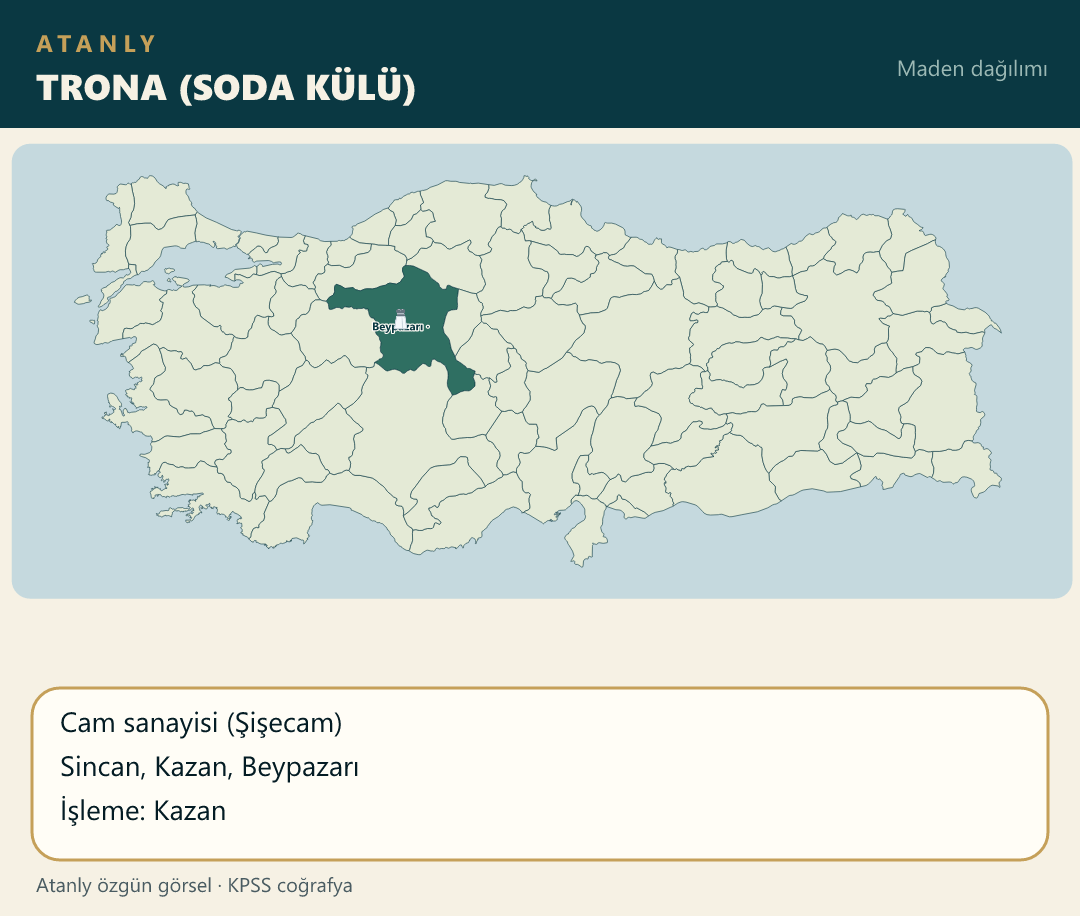
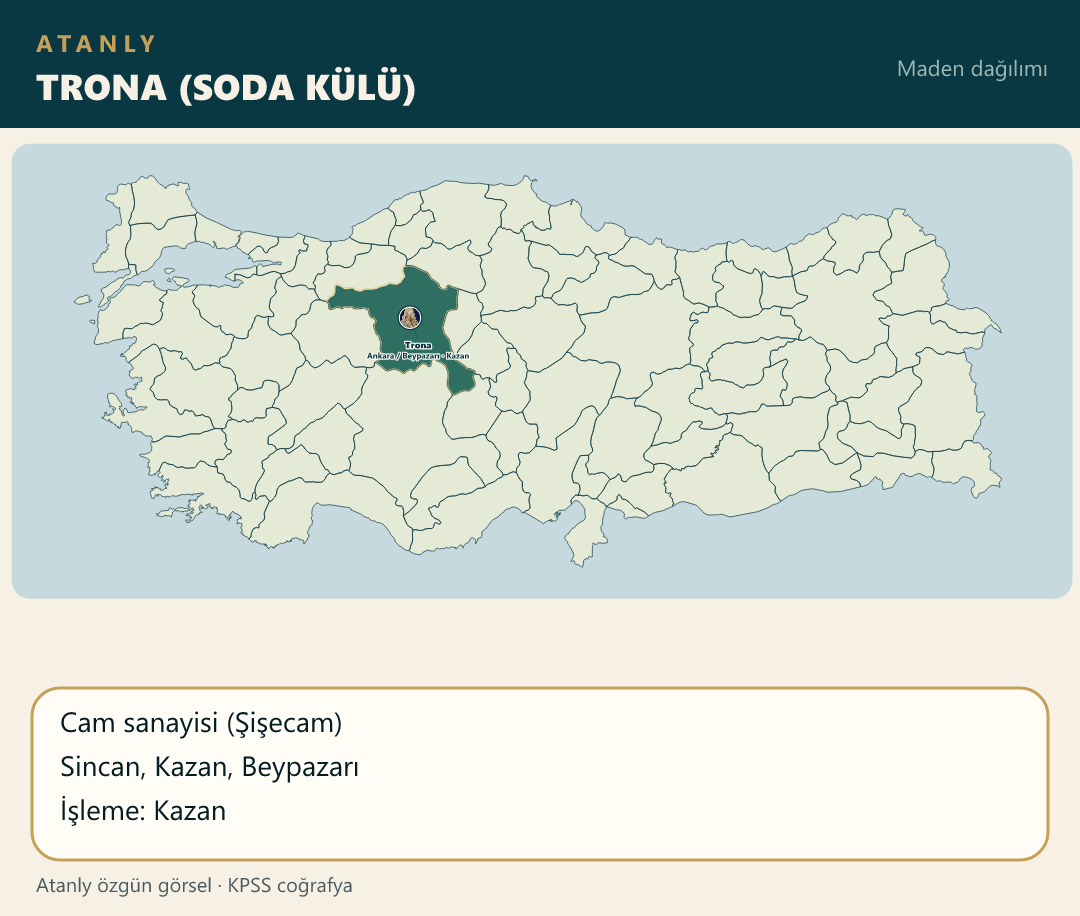
Place the trona photo on the Ankara land-center pin.

diff --git a/scripts/build-atanly-maps.js b/scripts/build-atanly-maps.js
@@ -484,7 +484,7 @@ function topicIcon(file) {
         milliparklar: "park",
         madengenel: "ore", madendemir: "iron", madenbakir: "copper", madenboksit: "bauxite",
         madenkrom: "chrome", madenbarit: "barite", madenbor: "boron", madenmermer: "marble",
-        madenfosfat: "phosphate", madenasbest: "asbestos", madentrona: "salt", madenaltin: "gold",
+        madenfosfat: "phosphate", madenasbest: "asbestos", madentrona: "trona", madenaltin: "gold",
         madenuranyum: "uranium", madentoryum: "thorium", madenciva: "mercury", madentuz: "salt",
         madenperlit: "perlite", madenpomza: "pumice", madenkukurt: "sulfur", madenmanganez: "manganese",
         madenkursun: "lead", madenoltu: "jet", madenlule: "lule", madenvolfram: "tungsten",
@@ -1049,8 +1049,10 @@ function main() {
                 { il: "Sivas", ilce: "Yıldızeli", ldx: 8, ldy: -28 }
             ],
             facts: ["Yanmazlık özelliği vardır", "Kanser yapıcı olduğu için yasaklıdır"] },
-        { file: "maden_trona.png", title: "TRONA (SODA KÜLÜ)", iller: ["Ankara"],
-            yazilar: ["Beypazarı · Kazan"],
+        { file: "maden_trona.png", title: "TRONA (SODA KÜLÜ)", urun: "Trona",
+            noktalar: [
+                { il: "Ankara", ilce: "Beypazarı · Kazan", ldx: 8, ldy: 30 }
+            ],
             facts: ["Cam sanayisi (Şişecam)", "Sincan, Kazan, Beypazarı", "İşleme: Kazan"] },
         { file: "maden_altin.png", title: "ALTIN", urun: "Altın",
             noktalar: [

diff --git a/notlar/cografya-21-not.js b/notlar/cografya-21-not.js
@@ -2,7 +2,7 @@
 (function () {
     function harita(src, alt) {
         return '<div class="mt-4 overflow-hidden rounded-xl border border-blue-200 dark:border-blue-700/50 bg-white dark:bg-slate-800 p-2">' +
-            '<img src="./src/img/' + src + '?v=34" alt="' + alt + ' Haritası" class="w-full h-auto rounded-lg object-contain" loading="lazy">' +
+            '<img src="./src/img/' + src + '?v=35" alt="' + alt + ' Haritası" class="w-full h-auto rounded-lg object-contain" loading="lazy">' +
             "</div>";
     }
 

diff --git a/index.html b/index.html
@@ -119,7 +119,7 @@
     <script src="notlar/cografya-18-not.js?v=17"></script>
     <script src="notlar/cografya-19-not.js?v=25"></script>
     <script src="notlar/cografya-20-not.js?v=1"></script>
-    <script src="notlar/cografya-21-not.js?v=27"></script>
+    <script src="notlar/cografya-21-not.js?v=28"></script>
     <script src="notlar/cografya-22-not.js?v=1"></script>
     <script src="notlar/cografya-23-not.js?v=1"></script>
     <script src="notlar/cografya-24-not.js?v=1"></script>
